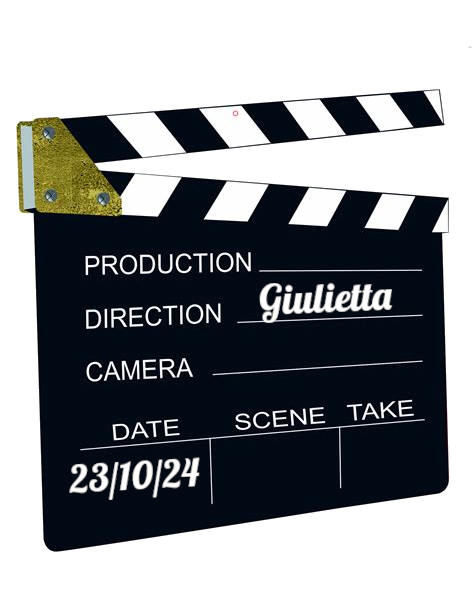
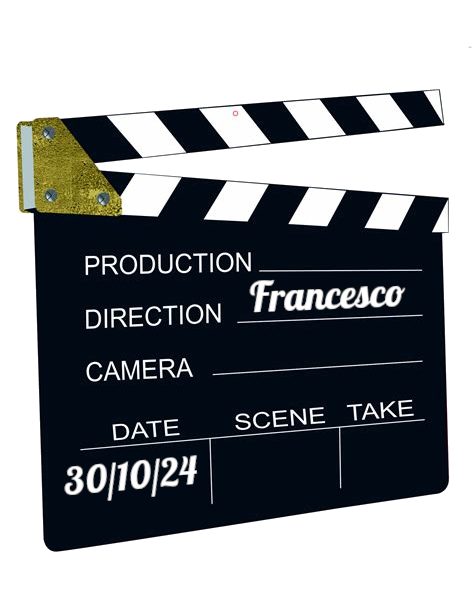
Il corsetto dell'Imperatrice

Changed region(s): [[0.5316, 0.4332, 0.8565, 0.5261], [0.1181, 0.7427, 0.443, 0.8355]]

diff --git a/index.html b/index.html
@@ -38,12 +38,23 @@
 
 <br /><br /><hr width="90%"><hr width="90%"><br /><br />
 
-<h1>Mercoled&igrave; 23 ottobre 2024</h1>
+<h1>Mercoled&igrave; 30 ottobre 2024</h1>
 <h2>Alle 20:30 in Via Nizza, 72</h2>
 <img src="img/ciak.png" class="locandina"/>
-<h2>Selezionatrice: <i>Giulietta</i></h2>
+<h2>Selezionatore: <i>Francesco</i></h2>
 
 <br /><br /><hr width="90%"><hr width="90%"><br /><br />
+
+<h1>Mercoled&igrave; 23 ottobre 2024</h1>
+
+<p class="mtitle">
+<a href="https://www.imdb.com/title/tt11992694" target="_blank">Il corsetto dell'Imperatrice</a>
+</p>
+<img src="https://image.tmdb.org/t/p/w500/cEo47Epl7CCF7z9JnC68KXg3ec5.jpg" class="locandina"/>
+
+<h2>Selezionatrice: <i>Giulia</i></h2>
+
+<br /><br /><hr width="90%"><br /><br />
 
 
 <h1>Mercoled&igrave; 16 ottobre 2024</h1>

diff --git a/movieslist.html b/movieslist.html
@@ -29,6 +29,17 @@ Rassegnamoci, Cineforum a Programma Variabile - Elenco Film
   </thead>
   <tbody>
     <tr>
+      <td>23-Ott-2024</td>
+      <td>Il corsetto dell'Imperatrice</td>
+      <td>Giulia</td>
+      <td>-</td>
+      <td>2022</td>
+      <td>Marie Kreutzer</td>
+      <td>113</td>
+      <td>AT; FR; DE; LU</td>
+      <td><a href="https://www.imdb.com/title/tt11992694" target="_blank">https://www.imdb.com/title/tt11992694</a></td>
+    </tr>
+    <tr>
       <td>16-Ott-2024</td>
       <td>Rumore bianco</td>
       <td>Serena</td>
